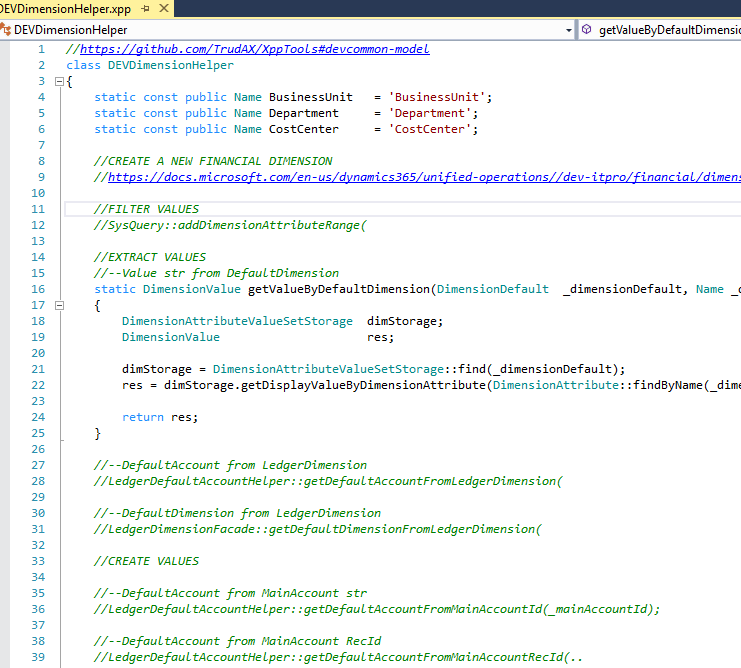
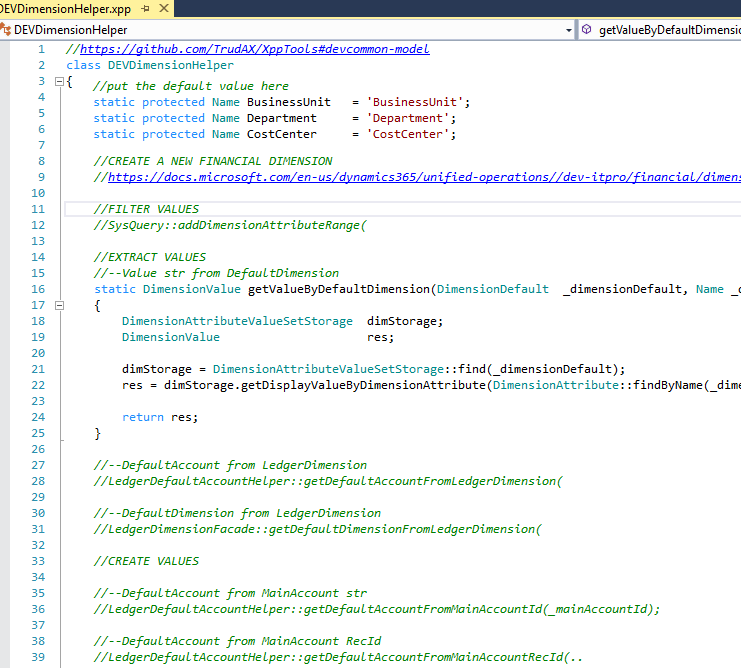
DIm ref form

Changed region(s): [[0.1242, 0.1198, 0.4656, 0.2096], [0.4966, 0.1198, 0.6518, 0.2096]]

diff --git a/src/posts/xpptools-devfindim/index.md b/src/posts/xpptools-devfindim/index.md
@@ -33,7 +33,7 @@ Sometimes you need to reference just one dimension value(for example get or set 
 
 All this can create a real mess, some of these options require a setup, some aren't compatible with cross-references.
 
-### Methods for working with Dimensions
+### Problem: Methods for working with Dimensions
 
 There are a lot of classes to manipulate dimensions, so it is often difficult to find the right one. Moreover, classes related to dimension were renamed in D365FO(comparing to AX2012). As a result, developers sometimes create a duplicate of the existing methods.
 
@@ -47,10 +47,14 @@ For example, if you google "assign a value to default dimension" the first link 
 
 To resolve the described issues I have created [DEVDimensionHelper](https://github.com/TrudAX/XppTools/blob/master/DEVCommon/DEVCommon/AxClass/DEVDimensionHelper.xml) class(you can rename it with your project prefix or use the default DEV). The idea is to collect all the necessary stuff in one place.
 
-In order to reference a dimension, you create a static constant in this class
+In order to reference a dimension, you create a static method in this class with a default value
 
 ```csharp
-static const public Name BusinessUnit   = 'BusinessUnit';
+    static protected Name BusinessUnit   = 'BusinessUnit';
+    static public Name BusinessUnit()  
+    { 
+        return BusinessUnit;  
+    }
 ```
 
 In this case, you don't need to perform any setup and can use "Find All References".
@@ -74,6 +78,20 @@ Currently this class contains the following references:
 As you see, there is no new code, all these it's just references(or small wrappers) to the standard classes. These methods will cover typical project requirements, if you need more, you can add them to this class. 
 
 The idea is to use this class as a starting point for any dimension related question on the project(even before Googling something). You get some dimension related question, you check this class, if there is no answer in it, research how to do this task and update the class with the solution(either in form of new methods or just references to existing objects).
+
+**Update 10/02/2020:**
+
+To avoid always hardcode dimension names, I have made the following adjustment in the solution:
+
+Created a static constructor in **DEVDimensionHelper** class that allows overriding the default dimension names(you need to uncomment this code or add your code)
+
+![Static constructor](StaticConstructor.png)
+
+Created a simple table and a form([DEVDimNamesReference](https://github.com/TrudAX/XppTools/blob/master/DEVTutorial/DEVTutorial/AxForm/DEVDimNamesReference.xml)) where you can setup dimension name references(this can be used for example in situations where you have CostCenter and CostCente dimensions)
+
+![](DimSetupForm.png)
+
+This form usage is optional, and even if it is used it requires zero setup - if the value in this form is not specified the default value from the class will be used. 
 
 ## Summary
 
